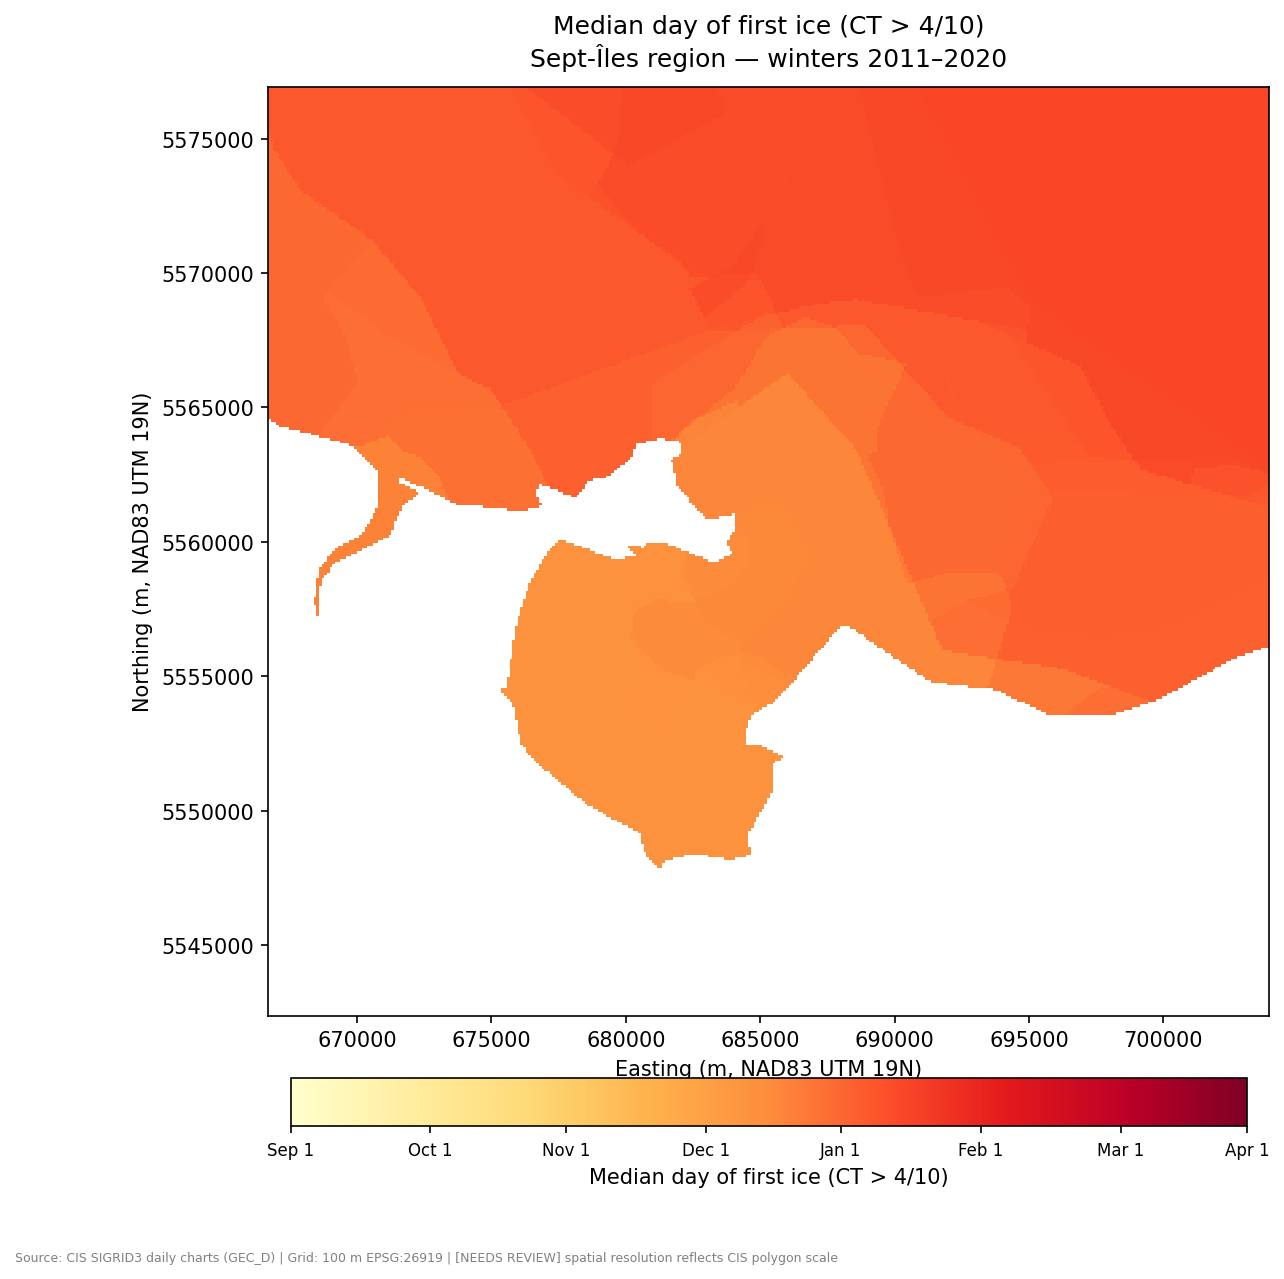
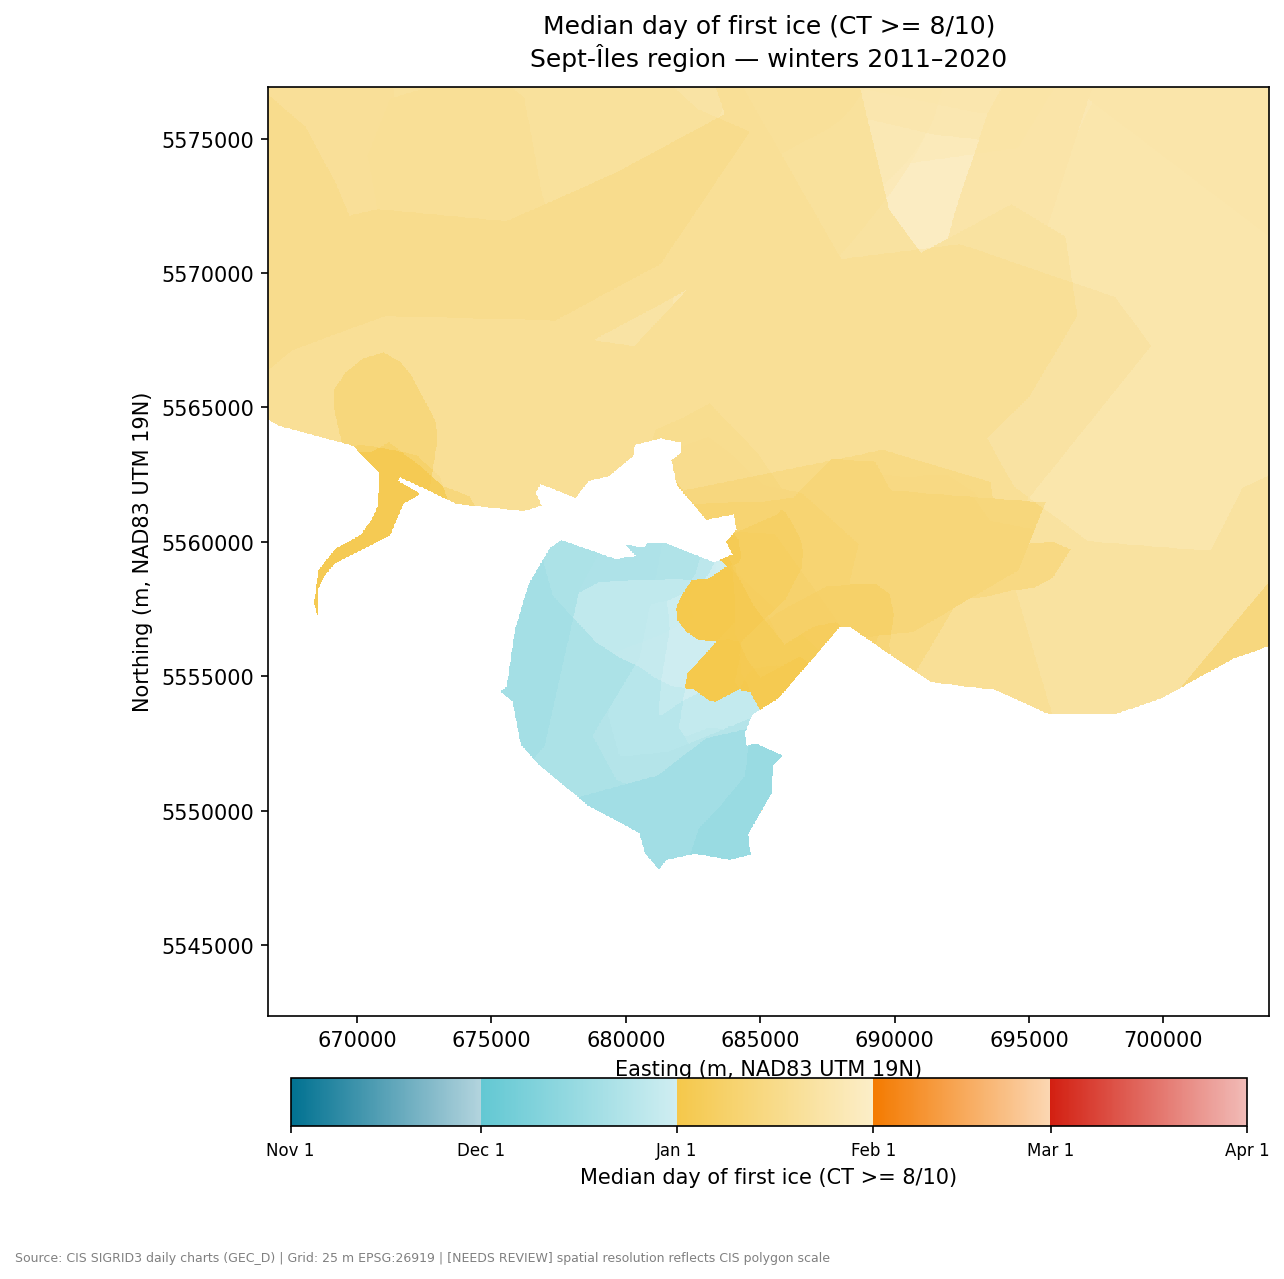
Creation of a sequential colormap to increase readability of the climatology.Changed threshold CT value to 80 order to create a map of when sea ice first starts to suppress wave propagation entirely.

diff --git a/scripts/first_ice_climatology.py b/scripts/first_ice_climatology.py
@@ -39,9 +39,9 @@ log = logging.getLogger(__name__)
 # ─────────────────────────────────────────────────────────────────────────────
 
 BBOX_SHP   = Path("D:/professionnel/bbox_sept-iles")
-GRID_RES   = 100            # metres
+GRID_RES   = 25            # metres
 GRID_CRS   = 26919          # NAD83 / UTM Zone 19N
-CT_MIN     = 50             # SIGRID3 code for > 4/10 concentration
+CT_MIN     = 80             # SIGRID3 code for > 4/10 concentration
 SEASON_MIN = "2010-09-01"   # first season_start — winter 2011
 SEASON_MAX = "2019-09-01"   # last season_start  — winter 2020
 OUTPUT     = Path(__file__).parent.parent / "docs" / "first_ice_sept-iles.png"
@@ -173,21 +173,70 @@ def run():
 # Visualization
 # ─────────────────────────────────────────────────────────────────────────────
 
-def _plot(median_days, n_seasons, xmin, ymin, xmax, ymax):
-    tick_days   = [0,  31,  61,  92, 122, 153, 184, 212]
-    tick_labels = ["Sep 1", "Oct 1", "Nov 1", "Dec 1",
-                   "Jan 1", "Feb 1", "Mar 1", "Apr 1"]
+def _make_monthly_cmap():
+    """
+    Five-month sequential colormap (Nov → Mar), one colour per month.
 
-    vmin = 0
-    vmax = tick_days[-1]
+    Within each month the alpha fades linearly from 1.0 (month start) to
+    0.3 (month end), creating visible band boundaries without hard edges.
+
+    Palette:
+        #007191  deep teal    — Nov
+        #62c8d3  light cyan   — Dec
+        #f5c84a  golden amber — Jan  [bridge: CIELAB midpoint between the
+                                       cyan and orange groups; L=62 for
+                                       accessibility; safe for deuteranopia]
+        #f47a00  orange       — Feb
+        #d31f11  deep red     — Mar
+
+    Returns (cmap, vmin, vmax, bounds) where bounds are the day-of-season
+    values [61, 91, 122, 153, 181, 212] at each month boundary (from Sep 1):
+        Sep(30) + Oct(31) = 61  → Nov 1
+        + Nov(30)          = 91  → Dec 1
+        + Dec(31)          = 122 → Jan 1
+        + Jan(31)          = 153 → Feb 1
+        + Feb(28)          = 181 → Mar 1
+        + Mar(31)          = 212 → Apr 1
+    """
+    COLORS = ["#007191", "#62c8d3", "#f5c84a", "#f47a00", "#d31f11"]
+    BOUNDS = [61, 91, 122, 153, 181, 212]
+    VMIN, VMAX = BOUNDS[0], BOUNDS[-1]
+    total = VMAX - VMIN  # 151 days
+
+    EPS = 1e-6
+    stops = []
+    for i, col in enumerate(COLORS):
+        p0 = (BOUNDS[i]     - VMIN) / total
+        p1 = (BOUNDS[i + 1] - VMIN) / total
+        r, g, b = mcolors.to_rgb(col)
+        if i == 0:
+            stops.append((p0, (r, g, b, 1.0)))        # Nov 1: full opacity
+        stops.append((p1 - EPS, (r, g, b, 0.3)))      # end of month: 30 %
+        if i < len(COLORS) - 1:
+            r2, g2, b2 = mcolors.to_rgb(COLORS[i + 1])
+            stops.append((p1, (r2, g2, b2, 1.0)))     # next month: full opacity
+    stops.append((1.0, (*mcolors.to_rgb(COLORS[-1]), 0.3)))  # Mar 31
+
+    cmap = mcolors.LinearSegmentedColormap.from_list("monthly_ice", stops, N=1024)
+    cmap.set_under(mcolors.to_rgba(COLORS[0], 1.0))   # pre-Nov ice → full teal
+    cmap.set_bad("none")                               # NaN → transparent
+    return cmap, VMIN, VMAX, BOUNDS
+
+
+def _plot(median_days, n_seasons, xmin, ymin, xmax, ymax):
+    cmap, vmin, vmax, bounds = _make_monthly_cmap()
+
+    tick_days   = bounds
+    tick_labels = ["Nov 1", "Dec 1", "Jan 1", "Feb 1", "Mar 1", "Apr 1"]
 
     fig, ax = plt.subplots(figsize=(10, 9))
+    ax.set_facecolor("white")
 
     im = ax.imshow(
         median_days,
         origin="lower",
         extent=[xmin, xmax, ymin, ymax],
-        cmap="YlOrRd",
+        cmap=cmap,
         vmin=vmin,
         vmax=vmax,
         interpolation="none",
@@ -195,12 +244,12 @@ def _plot(median_days, n_seasons, xmin, ymin, xmax, ymax):
 
     cbar = fig.colorbar(im, ax=ax, orientation="horizontal",
                         fraction=0.046, pad=0.06,
-                        label="Median day of first ice (CT > 4/10)")
+                        label="Median day of first ice (CT >= 8/10)")
     cbar.set_ticks(tick_days)
     cbar.set_ticklabels(tick_labels, fontsize=8)
 
     ax.set_title(
-        "Median day of first ice (CT > 4/10)\nSept-Îles region — winters 2011–2020",
+        "Median day of first ice (CT >= 8/10)\nSept-Îles region — winters 2011–2020",
         fontsize=12, pad=10,
     )
     ax.set_xlabel("Easting (m, NAD83 UTM 19N)")
@@ -209,7 +258,7 @@ def _plot(median_days, n_seasons, xmin, ymin, xmax, ymax):
 
     fig.text(
         0.01, 0.01,
-        "Source: CIS SIGRID3 daily charts (GEC_D) | Grid: 100 m EPSG:26919 | "
+        "Source: CIS SIGRID3 daily charts (GEC_D) | Grid: 25 m EPSG:26919 | "
         "[NEEDS REVIEW] spatial resolution reflects CIS polygon scale",
         fontsize=6, color="grey",
     )
